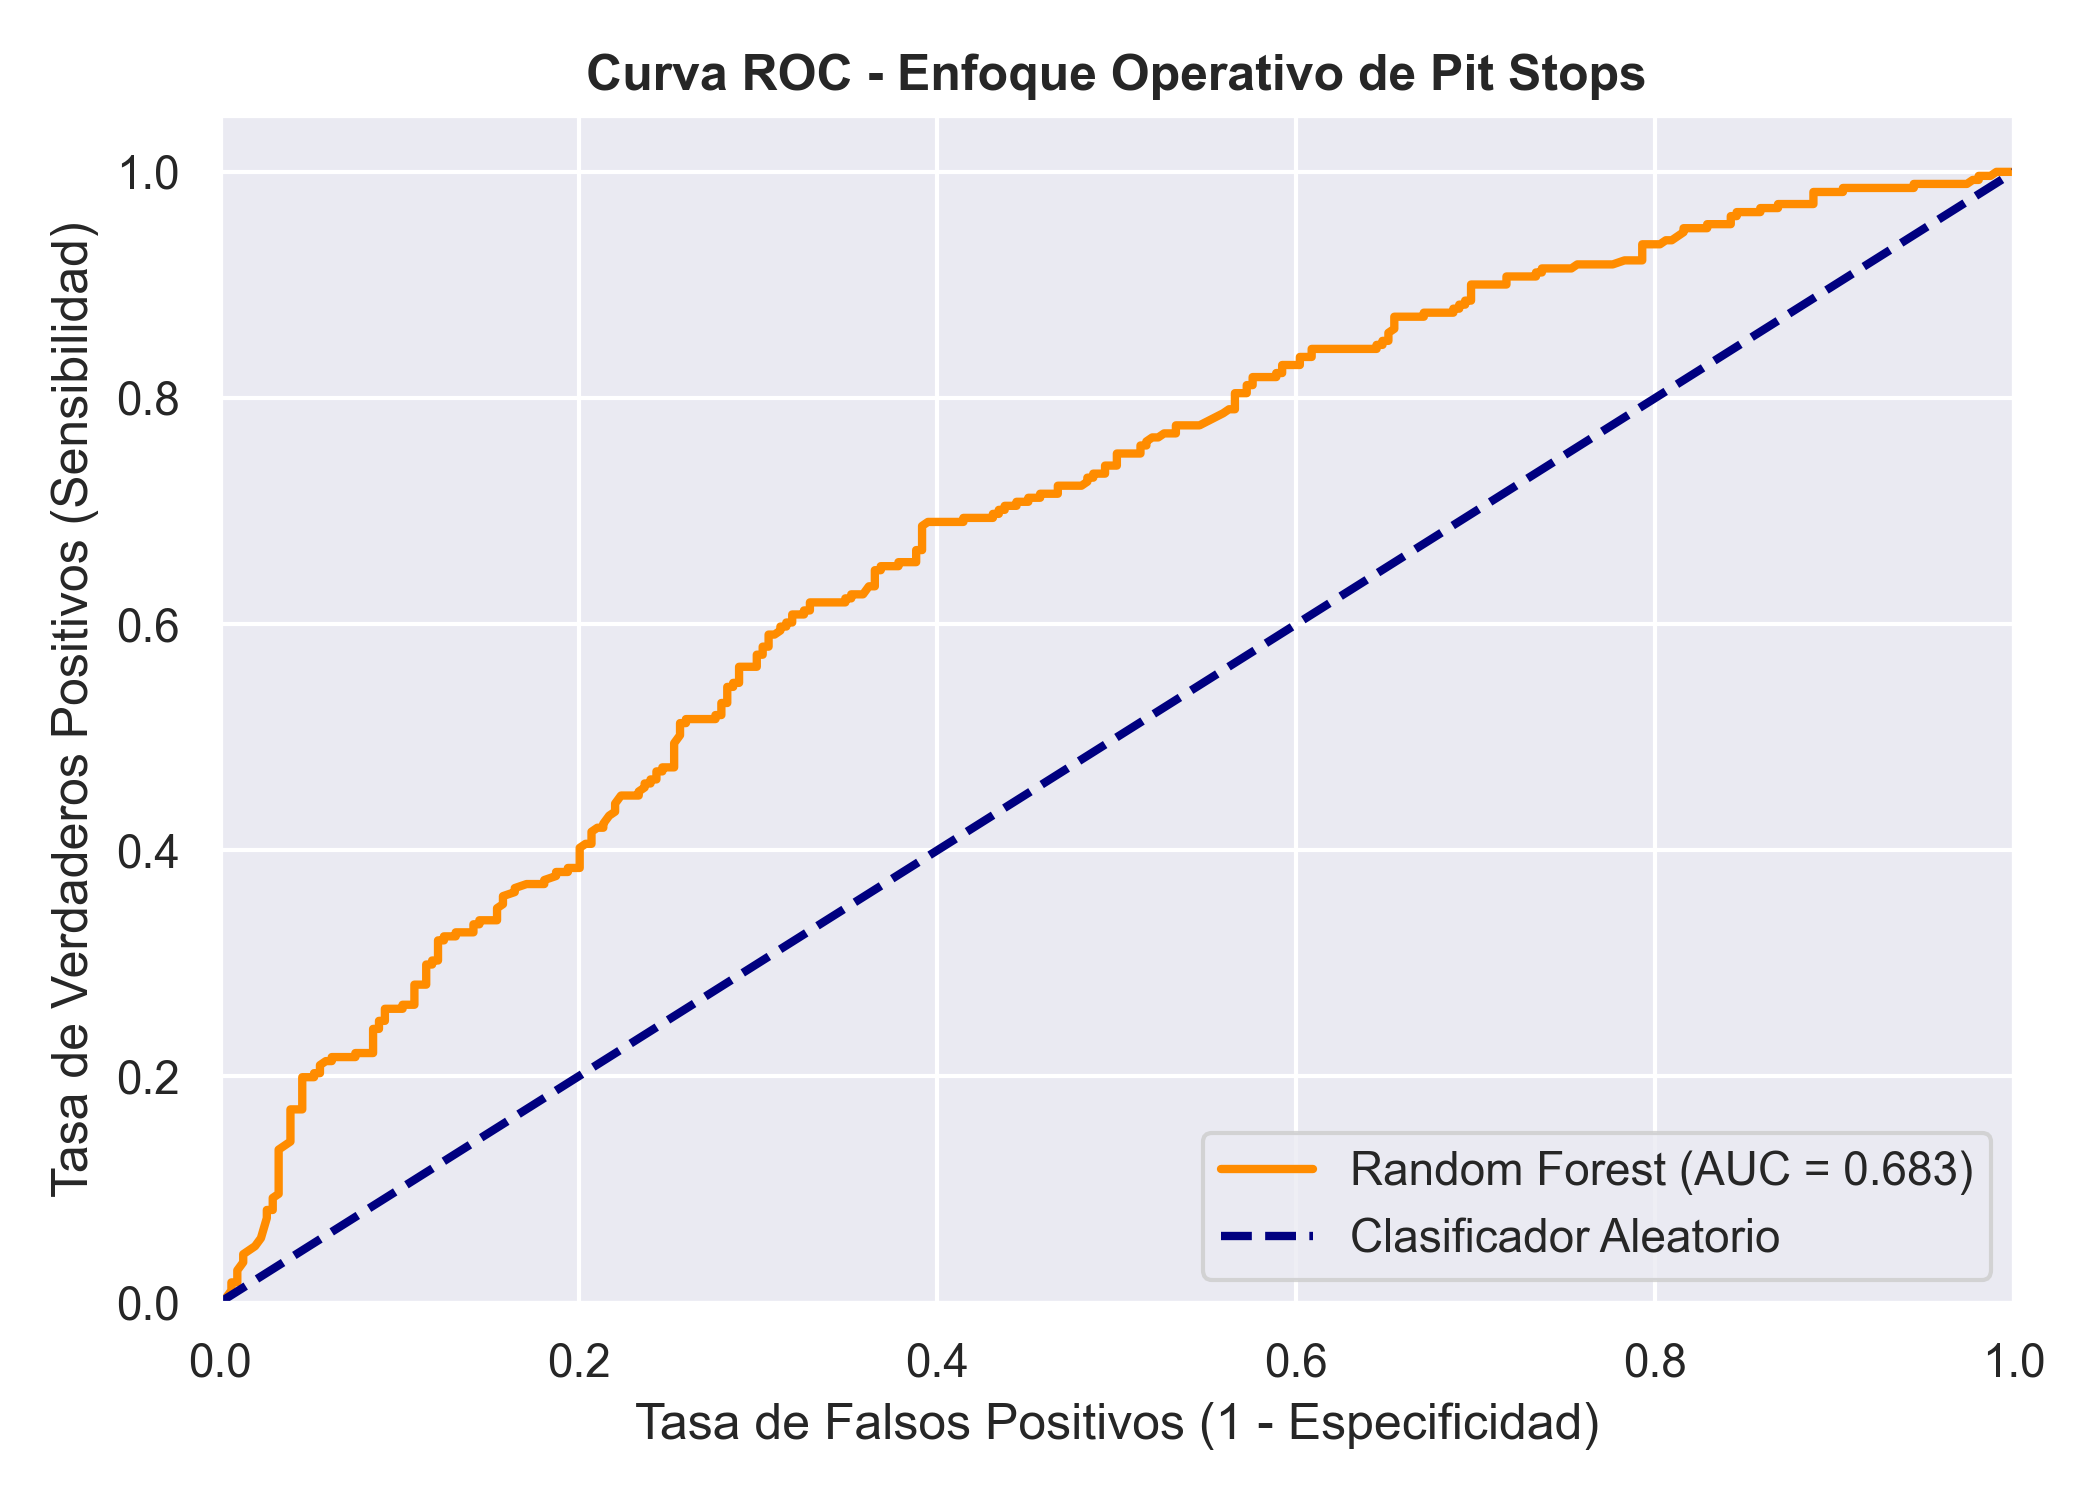
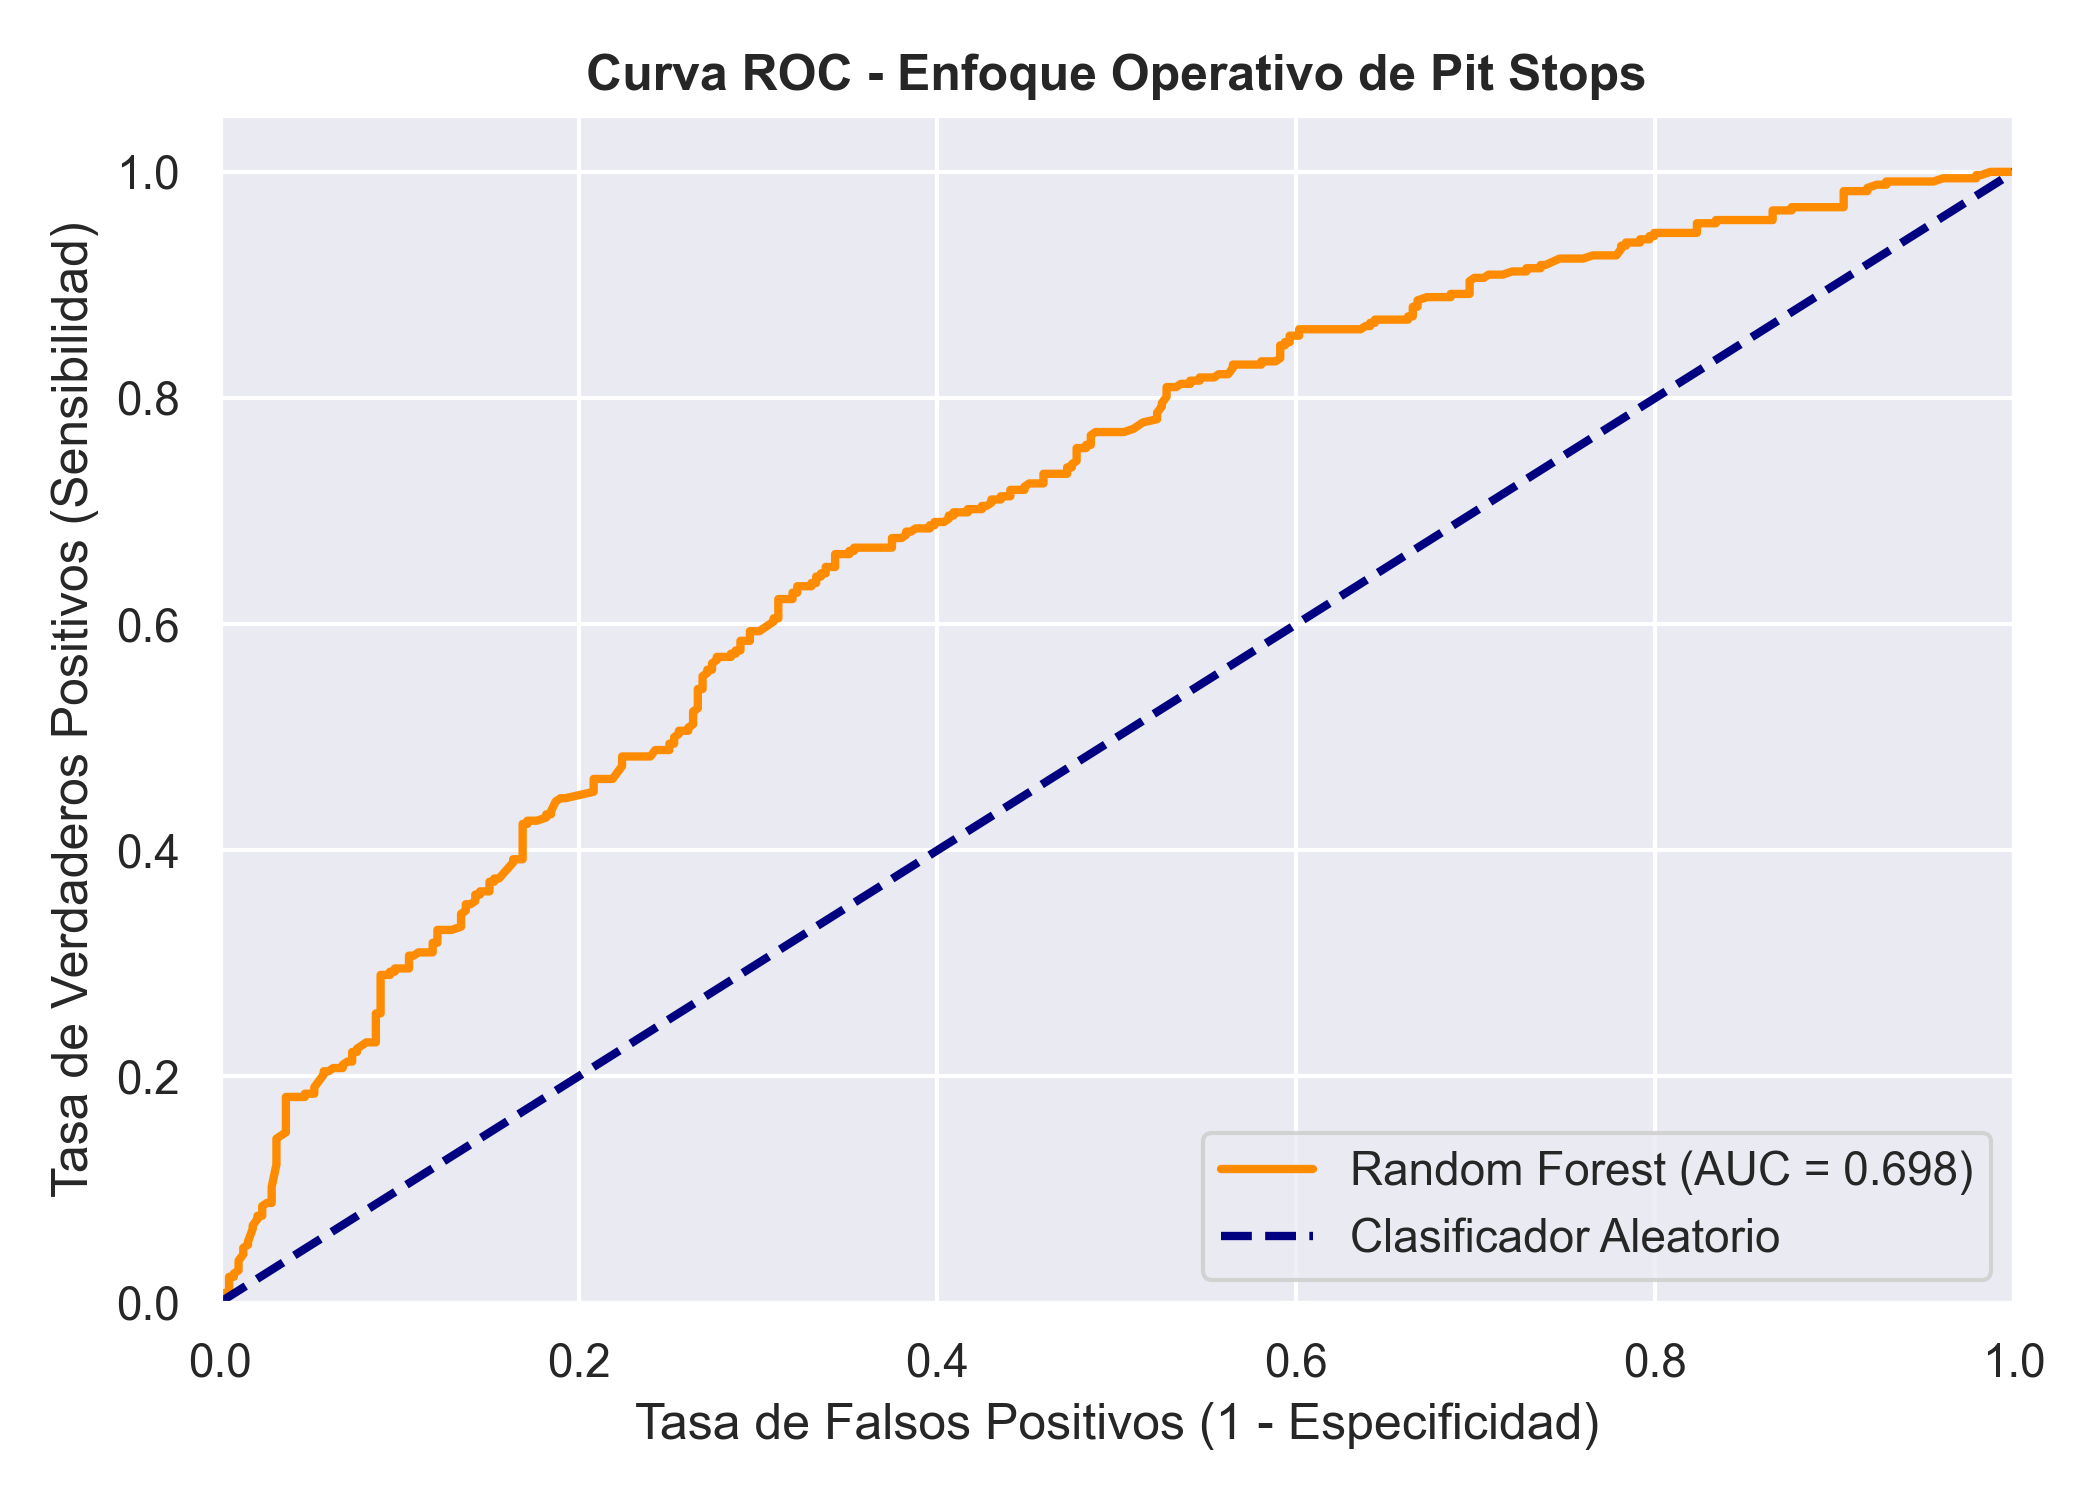
correction train/test proportions

Changed region(s): [[0.0929, 0.1533, 0.8048, 0.8587], [0.8048, 0.092, 0.9595, 0.1533], [0.8976, 0.7667, 0.9286, 0.7973]]

diff --git a/scripts/03_random_forest_top5.py b/scripts/03_random_forest_top5.py
@@ -52,7 +52,7 @@ y = df_model[TARGET_COL]
 X_train, X_test, y_train, y_test = train_test_split(
     X, 
     y, 
-    test_size=0.20, 
+    test_size=0.25, 
     random_state=42, 
     stratify=y
 )
